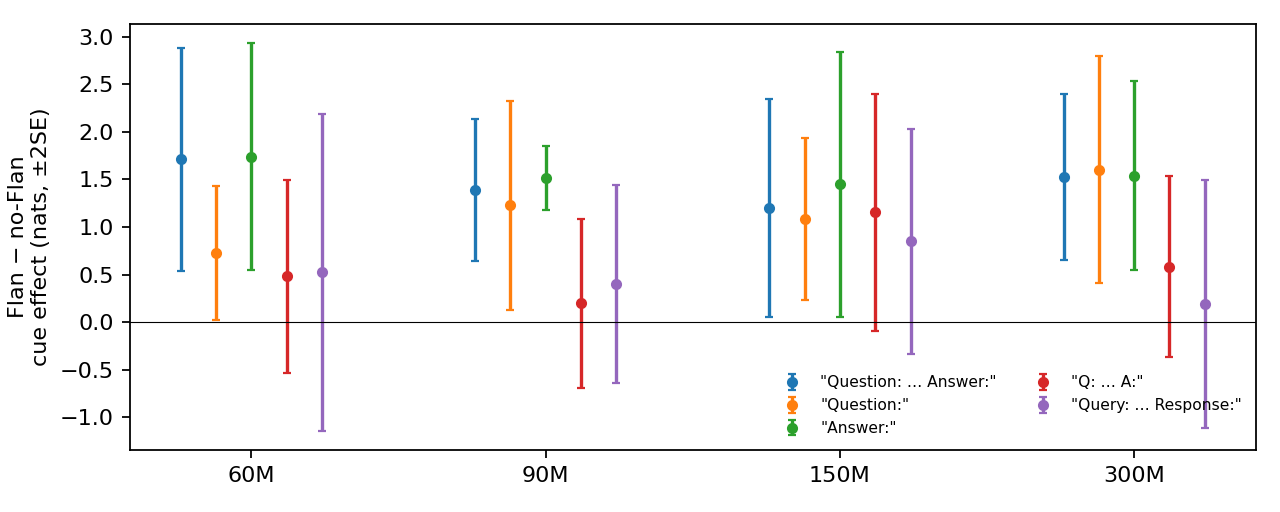
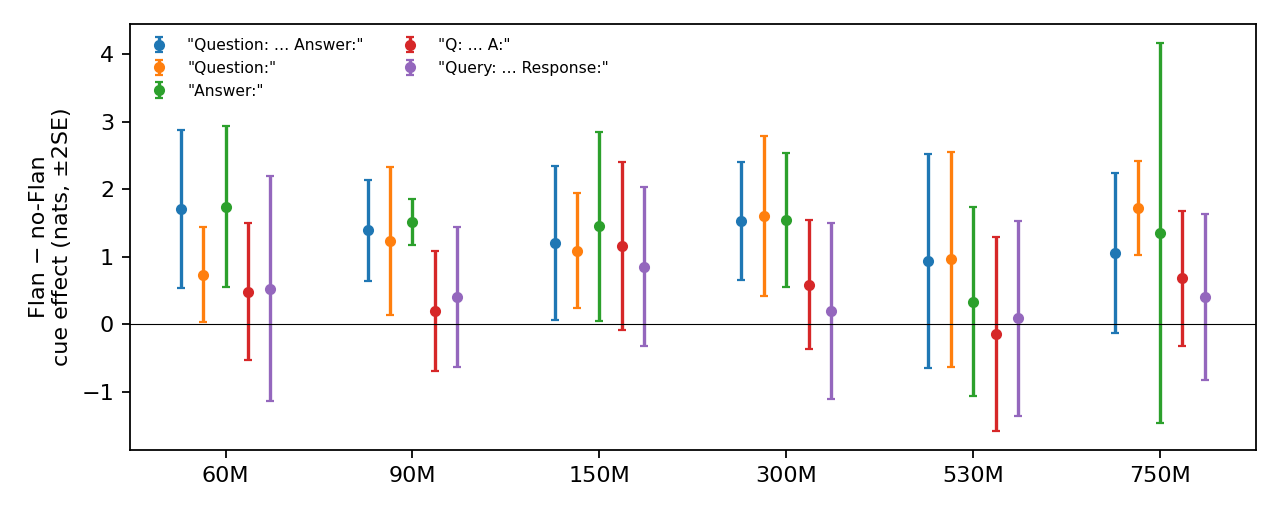
mechanism-population: README progress page (critical period, scale curve to 300M), figures updated

diff --git a/workbench/mechanism-population-dynamics/scripts/figs.py b/workbench/mechanism-population-dynamics/scripts/figs.py
@@ -10,6 +10,7 @@ import matplotlib
 
 matplotlib.use("Agg")
 import matplotlib.pyplot as plt
+import matplotlib.ticker
 import numpy as np
 
 import mp_common as mc
@@ -56,6 +57,8 @@ def fig_scale():
         for c in ("SI", "SD", "DD"):
             ax.plot([params[s] for s in S], [d[s][m]["within_layer"][c] for s in S], "o-", color=C[c], label=c, ms=4)
         ax.set_xscale("log")
+        ax.xaxis.set_major_formatter(matplotlib.ticker.FuncFormatter(lambda v, _: f"{v / 1e6:g}M" if v < 1e9 else f"{v / 1e9:g}B"))
+        ax.xaxis.set_minor_formatter(matplotlib.ticker.NullFormatter())
         ax.set_title(title)
         ax.set_xlabel("non-embedding parameters")
         ax.axhline(0, color="k", lw=0.5)

diff --git a/workbench/mechanism-population-dynamics/README.md b/workbench/mechanism-population-dynamics/README.md
@@ -9,17 +9,17 @@
 
 > **Across independently trained model instances, at what abstraction level is a mechanistic claim reproducible: exact component, causal role, algorithm/function, developmental ordering, or only behavior?**
 
-### 当前进展（2026-10-03 12:10）
-**一句话（新叙事，见 §8 与 `experiments/A02-*.md`）：** *Seeds decide where, data decides what.* 同层内由哪个头来做由随机初始化决定，换掉整个预训练语料也不变；成分的强度和模型的行为由数据决定，初始化对它们没有主效应；1% 的指令数据就能装入一个由字面线索触发的行为开关。
+### 当前进展（2026-10-03 14:35）
+**一句话（见 §8、`experiments/A02`、英文大纲 `A03`）：** *Seeds decide where, data decides what.* 同层内由哪个头来做由随机初始化决定（随规模增强），换掉整个预训练语料也不变；模型学到的内容与行为由数据决定，初始化对它们没有主效应；约 1% 的指令数据就能装入一个由字面线索触发的行为开关。
 
-| 主张 | 内容 | 证据（已完成） | 补充实验（进行中） |
-|---|---|---|---|
-| **C05 先天** | 同层内的头身份由初始化决定（层内 SI 0.27–0.34，SD ≈ 0）；“在哪一层”近似普适；数据分量 = 0；早期锁定；集体对称性破缺 | E35–E41；**E44**：Pythia 70M / 160M / 410M 第二家族复现；**训练起点审计**：DataDecide 每个 run 确实从共用的 step0 出发 | E42 因果图与迁移、E43 坐标系 vs 内容、E45 14 个尺寸、E46 受控训练（吸引域、关键期） |
-| **C04 后天** | 约 1% 的 Flan 装入由 “Question:” 触发的上下文依赖开关 | E25–E34、E29、E30；**E47**：60M、90M 已存在，同样只对 “Question:” 起作用 | E48 线索替换训练干预、E49 NQ-Swap、E50 开关归因是否由初始化决定 |
-| **行为 = 交互噪声** | 初始化对行为无主效应 | E36（12 个条件 0/12）；**E51**：14 个尺寸 × 11 个基准 = 154 个单元，初始化显著 3.9% / 7.8%（= 假阳性率），数据 75% / 98% | — |
+| 主张 | 已完成的证据 | 进行中 |
+|---|---|---|
+| **C05 先天（where）** | E35（1B，数据分量 = 0）；E44（Pythia 第二家族 8/8；数据顺序几乎不起作用）；E45（尺寸曲线：层内 SI 从 4M 的约 0.03 升到 150M–300M 的 0.2–0.3，SD 始终约 0）；E43（交叉分离：初始化固定残差坐标与头编号，不固定内容；MLP 神经元不继承；同初始化不线性连通）；E42（因果图弱但同向；头级迁移约 20%，未达门槛）；权重保留：最终与初始权重相关仅 0.03–0.09；审计：DataDecide 训练起点核对通过 | E45 530M–1B；E46（受控训练：中期结果显示**关键期在训练的 1%–2.5%**，之前换数据能重排头的角色、之后不能）；E46b（更大受控模型）；E46c（初始化尺度 × 学习率） |
+| **C04 后天（what）** | E25–E34、E29、E30；E47（开关在 60M–1B 的 6/7 个尺寸）；E49（NQ-Swap：OLMo 2 显著、DataDecide 边缘，自然材料上线索特异性较弱） | E48（改写 Flan 模板的继续预训练，因果干预）；E50（开关的头级归因是否由初始化决定） |
+| **行为 = 交互噪声** | E36；E51（154 个基准单元中初始化主效应 4–8% = 假阳性率，数据 75–98%：不存在跨数据的幸运 seed） | — |
 
-**本轮新发现：** P09：PolyPythias 160M 的 weight-seed 变体实际没有换初始化（step1 与标准版 step0 相关 1.0），已改作重跑对照；E44(b) 重新解读为：重跑 ≈ 换顺序（约 0.82–0.85）> 换数据（约 0.72）≫ 换初始化（层内约 0）。同初始化、不同数据的 1B 模型之间线性插值势垒很大（7.5 nats）：初始化决定的是对称性的选择，而不是权重空间里的接近。
-**纠错与运维：** P05–P08（见 PAIN_LOG）；E46 首轮因显存不足（每个 run 35 GB）作废后改为分块梯度累积重跑（不改变梯度）。
+**不可判定 / 暂停：** E52（特化神经元：度量不稳定）、E53（为什么是 “Question:”：两轮测量失效，止损）。**新发现：** P09（PolyPythias weight-seed 变体没有换初始化）。
+**草图：** `results/figs/`（交叉分离、尺寸曲线、基准方差、开关跨尺寸）。
 
 ## 1. Why inhabit this territory
 
